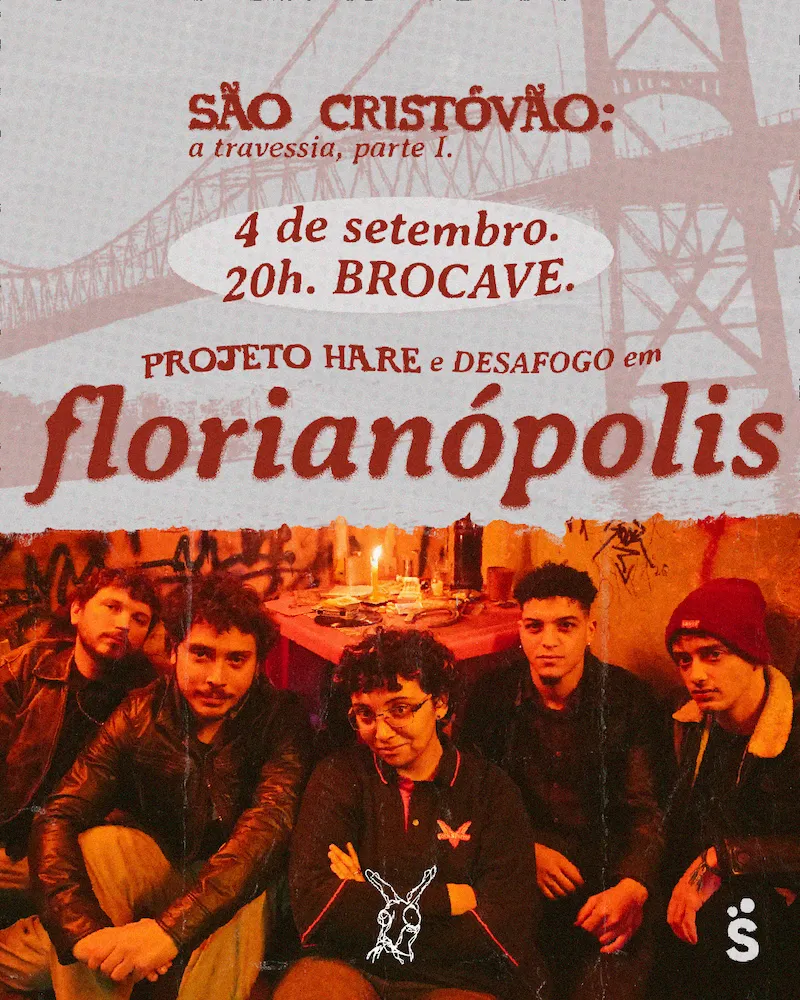
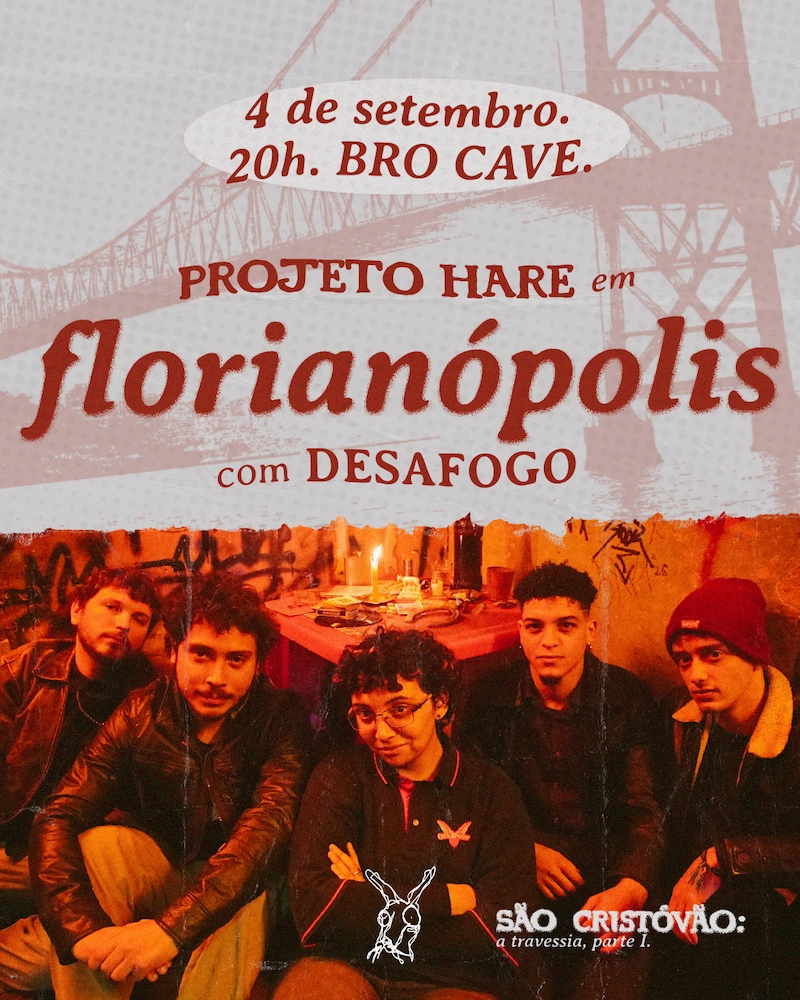
add floripa e curitiba

diff --git a/index.html b/index.html
@@ -437,7 +437,8 @@
                             c/ Desafogo.
                         </p>
 
-                        <a href="#" class="show-button">
+                        <a href="https://www.sympla.com.br/evento/projeto-hare-desafogo-brocave-florianopolis/3537610"
+                            class="show-button">
                             Ingressos em breve
                         </a>
 
@@ -449,17 +450,25 @@
 
                 <article class="show-card">
 
-                    <img src="assets/posters/placeholder.webp" alt="Curitiba">
+                    <img src="assets/posters/curitiba.webp" alt="Curitiba">
 
                     <div class="show-info">
 
-                        <p class="show-tag">Show</p>
+                        <p class="show-tag">Festival</p>
 
                         <p class="show-date">05 SET</p>
 
                         <h3>Curitiba</h3>
 
-                        <p>Informações em breve.</p>
+                        <p>El Niño de Casinha @ Casa Camaleão<br>
+                        </p>
+
+                        <p>c/ Rolimã, NoiteSó e adeusaturno
+                        </p>
+
+                        <a href="https://meaple.com.br/bandadecasinha/el-nino-de-casinha" class="show-button">
+                            Comprar ingressos
+                        </a>
 
                     </div>
 
